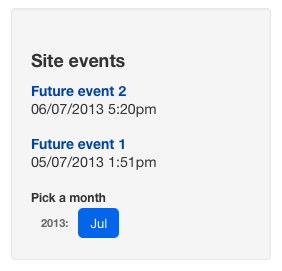
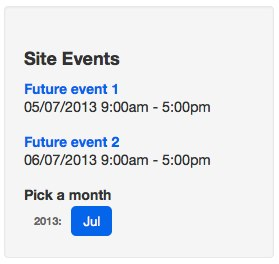
Update calendar documentation

diff --git a/docs/en/howto/calendar.md b/docs/en/howto/calendar.md
@@ -76,13 +76,13 @@ We can now access the events for the currently selected (or default) month in th
 to iteratively loop through the events:
 
 	:::ss
+		<h3>Site Events</h3>
 		<% loop SiteEvents %>
 			<div class="event-listing">
 				<h4><a href="$Link">$Title</a></h4>
-				<p>$Date.Nice</p>
+				<p>$Date.Nice $StartTime.Nice - $EndTime.Nice</p>
 			</div>
 		<% end_loop %>
-
 
 We can also provide an alternative string if no events are found:
 
@@ -135,20 +135,24 @@ control. Here is an example of this with some extra comments added in (see at th
 listing).
 
 	:::ss
-	<%-- Loop through years first --%>
-	<% loop SiteEventMonths %>
-		<h6 class="year">$YearName:</h6>
+	<h5>Pick a month</h5>
 	
-		<%-- Then loop through months within each year --%>
-		<ol class="nav nav-pills unstyled months">
-			<% loop Months %>
-	
-				<%-- use the Active, MonthLink and MonthName to produce the pagination --%>
-				<li <% if Active %>class="active"<% end_if %>><a href="$MonthLink.XML">$MonthName</a></li>
-	
-			<% end_loop %>
-		</ol>
-	<% end_loop %>
+	<div class="month-filter">
+		<%-- Loop through years first --%>
+		<% loop SiteEventMonths %>
+			<h6 class="year">$YearName:</h6>
+		
+			<%-- Then loop through months within each year --%>
+			<ol class="nav nav-pills unstyled months">
+				<% loop Months %>
+		
+					<%-- use the Active, MonthLink and MonthName to produce the pagination --%>
+					<li <% if Active %>class="active"<% end_if %>><a href="$MonthLink.XML">$MonthName</a></li>
+		
+				<% end_loop %>
+			</ol>
+		<% end_loop %>
+	</div>
 
 The `Active` will be set to true for the month that is the same as the currently selected one. The `MonthLink` is the
 link built on the basis of the current URL, plus the `year` and `month` GET params needed for selecting the relevant
@@ -241,7 +245,7 @@ Code for `Page.ss` template:
 			<% loop SiteEvents %>
 				<div class="event-listing">
 					<h4><a href="$Link">$Title</a></h4>
-					<p>$Date.Nice</p>
+					<p>$Date.Nice $StartTime.Nice - $EndTime.Nice</p>
 				</div>
 			<% end_loop %>
 		<% else %>
